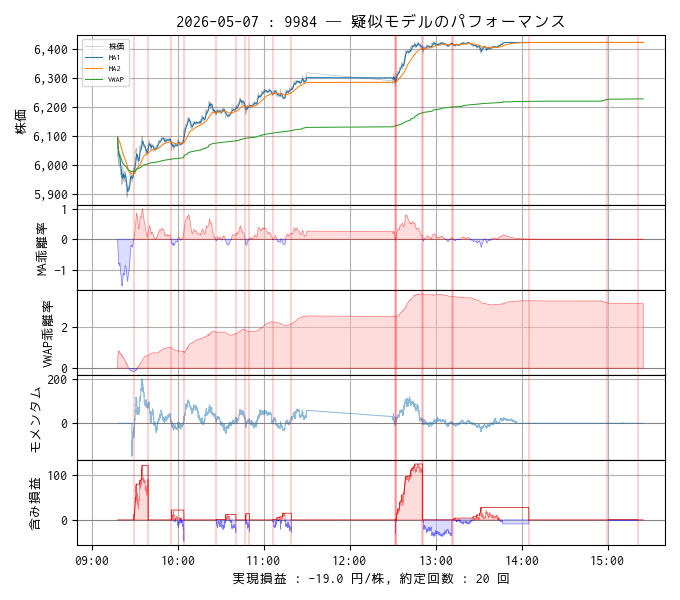
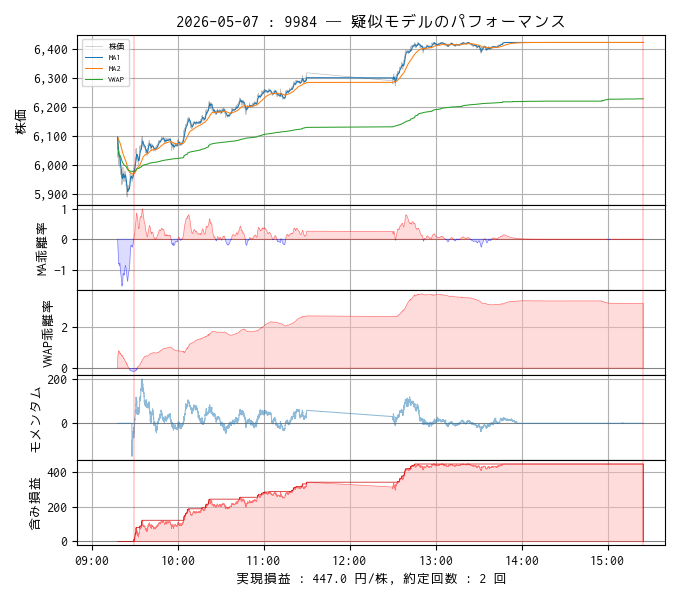
update

Changed region(s): [[0.0618, 0.06, 0.9574, 0.99]]

diff --git a/modules/env_data.py b/modules/env_data.py
@@ -28,7 +28,7 @@ class EnvData:
     N_MINUS_MAX: int = 600  # 連続含み損の最大カウント数
     N_POSITION_MIN: int = 300  # 建玉を保持する最小カウント数（含み益がある限りドローダウンより優先）
     LOSSCUT_1: float = -50.0  # 単純ロスカット
-    # DD_RATIO_MAX: float = 0.75  # ドローダウン利確の最大比率（これを超えたら利確）
+    DD_RATIO_MAX: float = 0.5  # ドローダウン利確の最大比率（これを超えたら利確）
     DD_THRESHOLD: float = 20.0  # ドローダウン利確を始める閾値
 
     # 報酬・ペナルティ系
@@ -114,7 +114,7 @@ class EnvData:
         print("N_MINUS_MAX", self.N_MINUS_MAX)  # 連続含み損の最大カウント数
         print("N_POSITION_MIN", self.N_POSITION_MIN)  # 建玉を保持する最小カウント数（含み益がある限りドローダウンより優先）
         print("LOSSCUT_1", self.LOSSCUT_1)  # 単純ロスカット
-        # DD_RATIO_MAX: float = 0.75  # ドローダウン利確の最大比率（これを超えたら利確）
+        print("DD_RATIO_MAX", self.DD_RATIO_MAX)  # ドローダウン利確の最大比率（これを超えたら利確）
         print("DD_THRESHOLD", self.DD_THRESHOLD)  # ドローダウン利確を始める閾値
 
     def check_valid_entry(self, type_action: ActionType) -> bool:
@@ -397,8 +397,8 @@ class EnvData:
         return self.dd_ratio
 
     def does_take_profit(self) -> bool:
-        # if self.DD_THRESHOLD < self.profit and self.DD_RATIO_MAX < self.update_dd_ratio():
-        if self.DD_THRESHOLD < self.profit and self.DD_THRESHOLD / self.profit_max < self.update_dd_ratio():
+        if self.DD_THRESHOLD < self.profit and self.DD_RATIO_MAX < self.update_dd_ratio():
+        # if self.DD_THRESHOLD < self.profit and max(0.5, self.DD_THRESHOLD / self.profit_max) < self.update_dd_ratio():
             return True
         else:
             return False

diff --git a/app_gnat_doe.py b/app_gnat_doe.py
@@ -8,7 +8,7 @@ import pandas as pd
 from tools.gnat import Gnat
 
 if __name__ == "__main__":
-    name_doe = "doe-001"
+    name_doe = "doe-002"
 
     dict_setting = {}
     df_doe = pd.read_csv(os.path.join("doe", name_doe, "doe.csv"))  # DOE条件のCSVファイルを読み込み